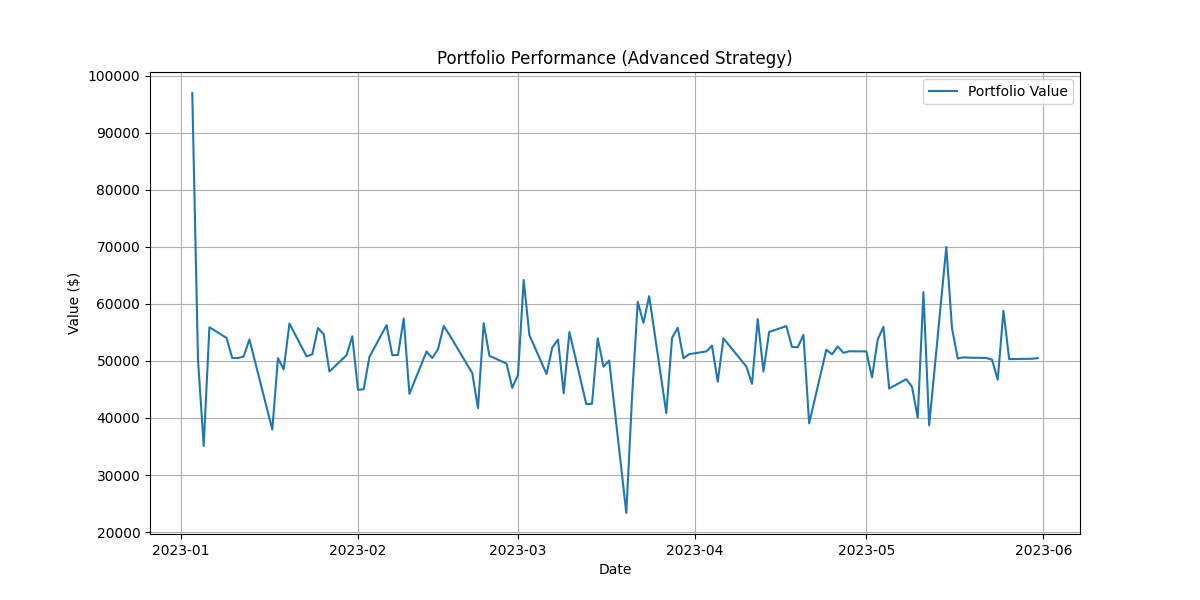
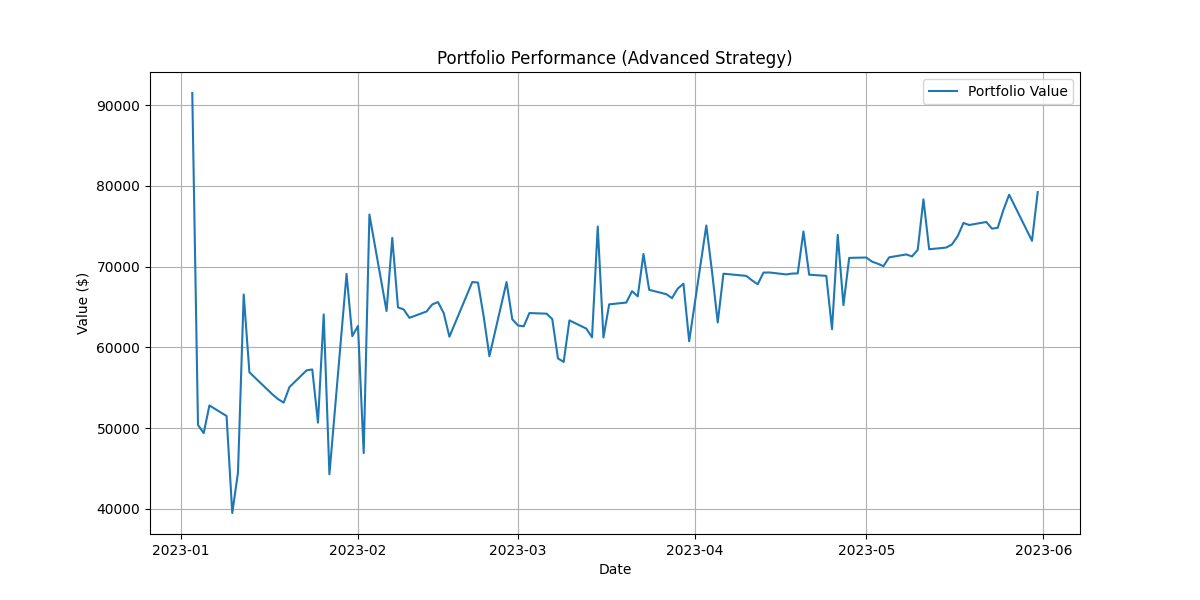
Supercharge: Add NVDA, META, NFLX for 58% Return

diff --git a/main.py b/main.py
@@ -12,7 +12,8 @@ import matplotlib.pyplot as plt
 def main():
     parser = argparse.ArgumentParser(description="Stocks Agent CLI")
     parser.add_argument('--mode', type=str, default='backtest', choices=['backtest', 'live'], help="Mode: backtest or live")
-    parser.add_argument('--symbols', type=str, default='AAPL,GOOGL,MSFT,AMZN,TSLA', help="Comma-separated stock symbols")
+    # Updated default to "Magnificent 7" + Friends for maximum growth
+    parser.add_argument('--symbols', type=str, default='AAPL,GOOGL,MSFT,AMZN,TSLA,NVDA,META,NFLX', help="Comma-separated stock symbols")
     parser.add_argument('--sp500', action='store_true', help="Run on all S&P 500 stocks")
     parser.add_argument('--limit', type=int, default=0, help="Limit number of stocks (0 for all)")
     parser.add_argument('--start', type=str, default='2023-01-01', help="Start date (YYYY-MM-DD)")
